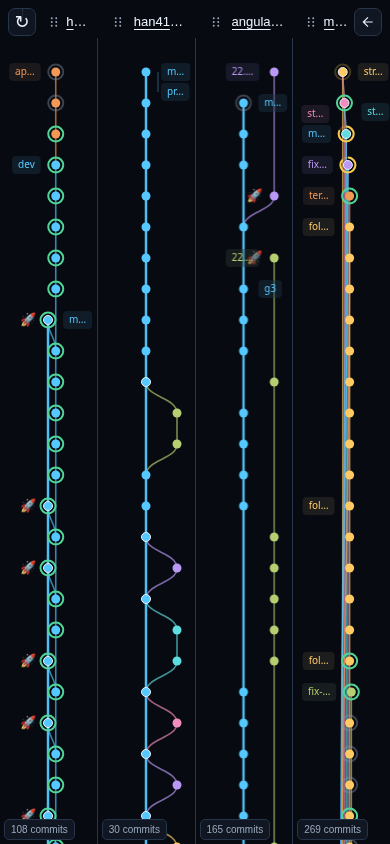
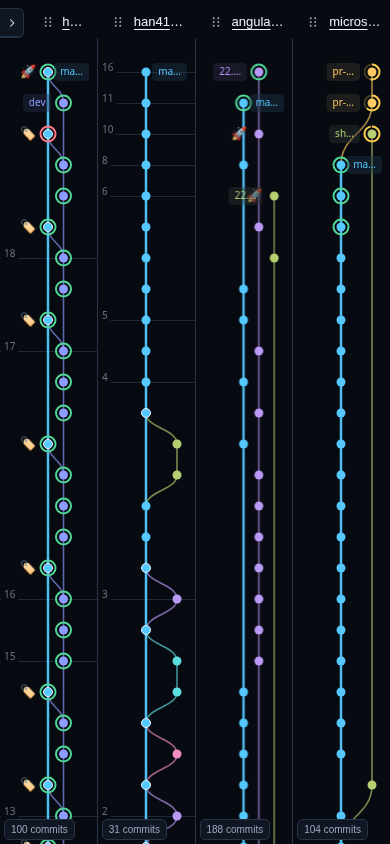
📝 README: 최신 UI 캡처와 Split view 안내 갱신
대표 그래프를 선택 없는 화면으로 교체하고 공개 GitHub 데이터로 스크린샷과 자동 갱신 GIF를 다시 촬영합니다. 책갈피·저장소 구성 변경 안내를 추가하고 세부 동작 설명을 줄입니다.

diff --git a/docs/images/README.md b/docs/images/README.md
@@ -1,34 +1,35 @@
 # README capture notes
 
-## Commit Trail captures (2026-11-12, Asia/Seoul)
+## Commit Trail captures (2026-11-19, Asia/Seoul)
 
-- Captured in Chromium from the local Production build of PR #157, based on `dev` commit `621dae7f2a1d0298e00196a7bbecbcb84f08fe3e`. The build includes theme-aware SVG logos, updated icons and bounded first-screen animation; the PR was not merged or deployed to Production at capture time.
-- The desktop capture shows [`han41858/commit-trail`](https://github.com/han41858/commit-trail), with actual release commit `16cca3a` selected. The mobile single-repository capture shows its loaded graph without an open detail panel.
-- Split view uses these public repositories in left-to-right order: [`han41858/commit-trail`](https://github.com/han41858/commit-trail), [`han41858/ai-native`](https://github.com/han41858/ai-native), [`angular/angular`](https://github.com/angular/angular), [`microsoft/vscode`](https://github.com/microsoft/vscode).
-- Browser API requests were relayed through the environment's authenticated GitHub CLI and allowed HTTP proxy to `api.github.com`; response bodies were passed through unchanged and reused within the capture session. No fabricated commits, branches or workflow states, UI composition, or image overlays were used. No token was entered or stored in the app.
-- Mobile uses Chromium touch/viewport emulation at device scale 1. These are app viewport screenshots, not physical-device or OS-level installed-PWA captures. The Split view mobile screenshots use the same browser session and repository order, resized from portrait to landscape. Resizing issued no additional GitHub requests.
+- Captured in Chromium from a local Production build of `dev` commit `ec7539b5197a7d5f561eca9411501366b7f5d482`. Its app source, assets and public files match deployed `main` commit `ddc221dc35eff026c645ec3664abbba4963f978f`. The Production domain was unavailable through this environment’s network policy, so these are local browser captures of the same app code.
+- The desktop and single-repository mobile captures show [`han41858/commit-trail`](https://github.com/han41858/commit-trail) without a selected commit or open detail panel, leaving the graph fully visible. They include the current logo, branch labels and locale-based date separators.
+- Split view uses these public repositories in left-to-right order: [`han41858/commit-trail`](https://github.com/han41858/commit-trail), [`han41858/ai-native`](https://github.com/han41858/ai-native), [`angular/angular`](https://github.com/angular/angular), [`microsoft/vscode`](https://github.com/microsoft/vscode). Its controls are collapsed behind the left-edge `>` bookmark tab.
+- Browser API requests were relayed through the environment’s authenticated GitHub CLI to `api.github.com`. Public-repository metadata was verified, response bodies were passed through unchanged, and responses were reused within the capture session. The recorded refresh fetched fresh responses. No fabricated commits, branches or workflow states, UI composition, image overlays or custom CSS were used. No token was entered or stored in the app.
+- The browser uses the dark theme, `en-US` locale and `Asia/Seoul` time zone. Mobile uses Chromium touch/viewport emulation at device scale 1. These are app viewport screenshots, not physical-device or OS-level installed-PWA captures. The Split view mobile screenshots use the same browser session and repository order, resized from portrait to landscape without additional GitHub requests.
 
-| File                         | Viewport   | Content                                                                                 |
-| ---------------------------- | ---------- | --------------------------------------------------------------------------------------- |
-| `desktop.png`                | 1280 × 800 | Commit Trail graph with commit, release, tag and workflow details                       |
-| `mobile.png`                 | 390 × 844  | The same repository in the narrow layout, without a detail panel                        |
-| `split-desktop.png`          | 1600 × 900 | Four columns with independent graphs, commit messages, refs and Actions rings           |
-| `split-mobile-portrait.png`  | 390 × 844  | The same four repositories in narrow, DAG-focused columns                               |
-| `split-mobile-landscape.png` | 844 × 390  | The same layout after rotation, with messages where column width and lane spacing allow |
-| `auto-refresh.gif`           | 900 × 380  | 10 seconds from 80 screenshots sampled at 8 fps                                         |
+| File                         | Viewport   | Content                                                                                     |
+| ---------------------------- | ---------- | ------------------------------------------------------------------------------------------- |
+| `desktop.png`                | 1280 × 800 | Commit Trail graph without selection, with current refs, metadata icons and date separators |
+| `mobile.png`                 | 390 × 844  | The same repository in the narrow layout, without a detail panel                            |
+| `split-desktop.png`          | 1600 × 900 | Four columns with independent graphs, messages, refs, Actions rings and a bookmark tab      |
+| `split-mobile-portrait.png`  | 390 × 844  | The same four repositories in narrow, DAG-focused columns                                   |
+| `split-mobile-landscape.png` | 844 × 390  | The same layout after rotation, with messages where column width and lane spacing allow     |
+| `auto-refresh.gif`           | 900 × 380  | 18 seconds from 144 screenshots sampled at 8 fps                                            |
 
-The captures show currently loaded history, not each repository's complete DAG. Message visibility depends on each column's width and actual lane spacing. Select any node to inspect full details even when messages are hidden.
+The captures show currently loaded history, not each repository’s complete DAG. Message visibility depends on each column’s width and actual lane spacing. Select any node to inspect full details even when messages are hidden. The single-repository mobile image is retained as a supporting capture; the README embeds the portrait/landscape Split view comparison.
 
 ## Automatic refresh recording
 
-The GIF shows a scheduled repository check using the normal one-minute refresh interval. The browser clock advances past the first 51 seconds before recording the final countdown and refresh; source frames advance at 125 ms intervals. The recording observed five app API requests, relayed using the same live-response cache as the screenshots. No new commit was created for the recording, so it demonstrates the scheduled refresh rather than a new node appearing.
+The GIF shows the blue progress fill and a scheduled repository check using the normal one-minute refresh interval. Recording begins near the end of the countdown and continues through its reset after the automatic check. The recording includes five app API requests and the countdown resetting after the check. The browser clock, CSS animation timing and app refresh policy are unchanged. No new commit was created for the recording, so it demonstrates a scheduled check rather than a new node appearing.
 
 ## Reproduce the captures
 
 1. Run `npm ci`, `npm run build` and `npm run preview` from the repository root.
-2. Open the app in a fresh browser profile, enter `han41858/commit-trail` in the repository field, submit it and use the dark theme.
-3. Set the viewport sizes listed above and select a real release commit through the desktop graph. Leave details closed for the single mobile view. Wait for request activity to settle before saving a PNG.
-4. For Split view, open `/?repo=han41858/commit-trail&repo=han41858/ai-native&repo=angular/angular&repo=microsoft/vscode`, wait for all four columns and metadata requests to settle, then capture desktop and mobile portrait views. Resize the mobile session to landscape without changing repository order or scroll position.
-5. For the GIF, choose a one-minute refresh interval in Options, dismiss the menu, and record the end of the countdown and the next scheduled check. Browser-clock acceleration may skip the initial wait without changing the app's refresh policy.
+2. Open the app in a fresh browser profile, use the dark theme, and enter `han41858/commit-trail`. Use the `en-US` locale and `Asia/Seoul` time zone to reproduce these labels.
+3. Set the viewport sizes listed above, leave commit selection clear and move the pointer outside the graph. Wait for history and metadata requests to settle before saving a PNG.
+4. For Split view, open `/?repo=han41858/commit-trail&repo=han41858/ai-native&repo=angular/angular&repo=microsoft/vscode`, wait for all four columns and metadata requests to settle, and leave the bookmark controls collapsed. Capture desktop and mobile portrait views. Resize the mobile session to landscape without changing repository order or scroll position.
+5. Use the `>` tab and **Manage repositories** to confirm that the current selection and **Apply changes** action are available. Close the dialog before the overview captures.
+6. For the GIF, choose a one-minute refresh interval in Options, dismiss the menu, and record at 8 fps from approximately 48 seconds into the countdown through the next scheduled check. Encode the unmodified frames as a looping GIF.
 
-Save the browser's output without altering the UI or data. Live repository contents and workflow states can change, so later captures need not have the same commit count or timestamps.
+Save the browser’s output without altering the UI or data. Live repository contents and workflow states can change, so later captures need not have the same commit count or timestamps.

diff --git a/README.md b/README.md
@@ -29,7 +29,8 @@
 
 ## Features
 
-- **Follow branches and merges** in an interactive, vertical Git graph. Hover a branch badge, commit or connecting line to follow its branch flow between the starting fork and terminal merge in any screen size or Split view. Known source and destination branch name badges stay highlighted too. Click/tap a branch name or line to retain its highlight and close commit details, or a commit to highlight and open details. Retained paths are independent per Split view column; truncated badge taps also reveal the full name. Hover a merge connector to follow its incoming branch path back to the starting fork and see the selected merge point, excluding later work on that branch. Branches sharing a commit appear as separate, vertically stacked name badges.
+- **Follow branches and merges** in an interactive, vertical Git graph. Hover or select a [branch path](docs/dag-hover-highlight.md) to follow its history, and select a commit for details.
+- **Read the timeline** with month and day separators formatted for your locale.
 - **Stay current** with automatic updates that preserve your place while reading.
 - **Split view** puts 1–32 repositories in one row, with independent graphs and scrolling on a shared refresh schedule.
 - **See the context** with tags, releases and GitHub Actions status beside commits.
@@ -45,7 +46,9 @@
 
 ![Commit Trail Split view showing Commit Trail, AI Native, Angular and VS Code in four columns in a wide viewport](docs/images/split-desktop.png)
 
-Choose **Split view** to select repositories. Drag a header handle to reorder columns; on touch screens, press and hold the handle first. Inspect commits and GitHub Actions in any column, then use **Copy link** in the selection dialog to share the arrangement.
+Choose **Split view** to select repositories. While viewing, open the `>` tab on the left to refresh, **Manage repositories**, or **Return to single view**. Choose **Manage repositories**, edit the list, then **Apply changes**. Repositories that stay in the view keep their scroll position and selection.
+
+Drag a header handle to reorder columns; on touch screens, press and hold it first. Inspect commits and GitHub Actions in any column, or use **Copy link** in the selection dialog to share the arrangement.
 
 <table>
   <tr><th>Portrait</th><th>Landscape</th></tr>
@@ -65,7 +68,7 @@ _Actual browser captures with public GitHub data. Mobile uses viewport emulation
 2. Enter `owner/repo` or a GitHub repository URL and press Enter. Or enter just an owner, such as `han41858`, then choose a repository from the list.
 3. Choose a branch, scroll through history and select a commit for details.
 
-Owner lists appear after you submit the input; typing makes no requests. Repositories are requested in name order (A–Z). Filter loaded names locally; scrolling down at the bottom or pressing **Load more** loads another page and retries eligible failed requests. The button always says **Load more**; loading and errors use the existing indicators and messages. Filtering pauses pagination; clear the filter to continue scrolling. Requests stop once no next page remains. In Split view, check multiple repositories and choose **Add N repositories** to add them together, up to 32 including your existing selection. See the [owner selection guide](docs/owner-repositories.md) for access and pagination details.
+Submit an owner to browse its repositories in A–Z order, then filter the loaded list or use **Load more**. In Split view, check multiple repositories and choose **Add N repositories**. See the [owner selection guide](docs/owner-repositories.md) for access, filtering and pagination details.
 
 Commit Trail remembers the last branch you choose for each repository in this browser. An explicit `branch` in a shared URL takes priority for that visit without changing your saved choice; otherwise it restores your choice, then falls back to `main`, `master`, or the repository default.
 
